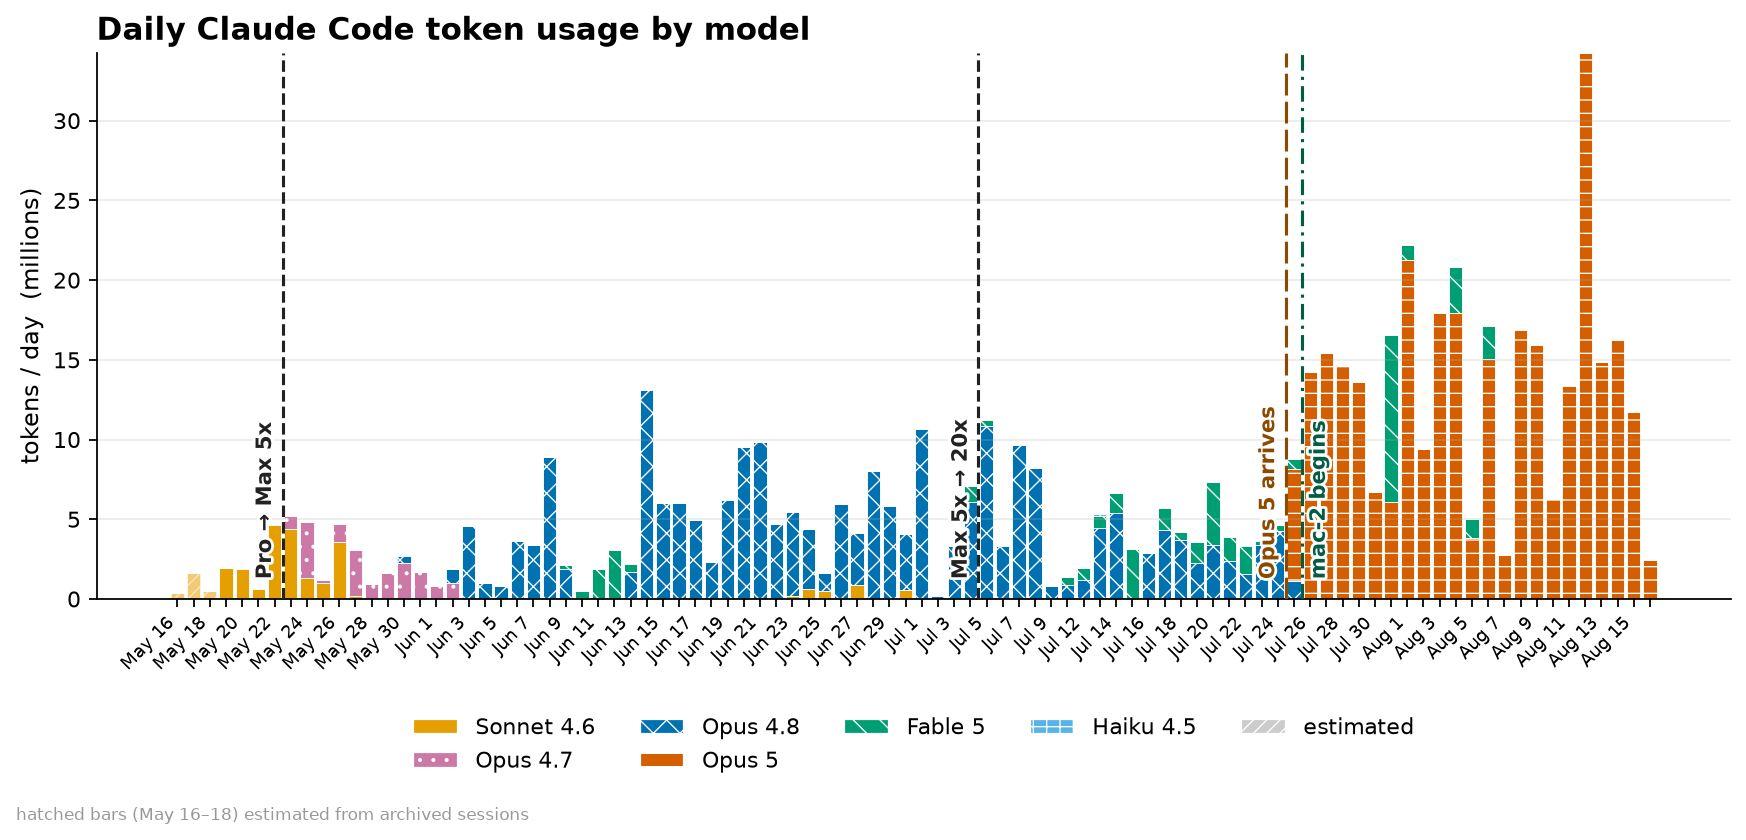
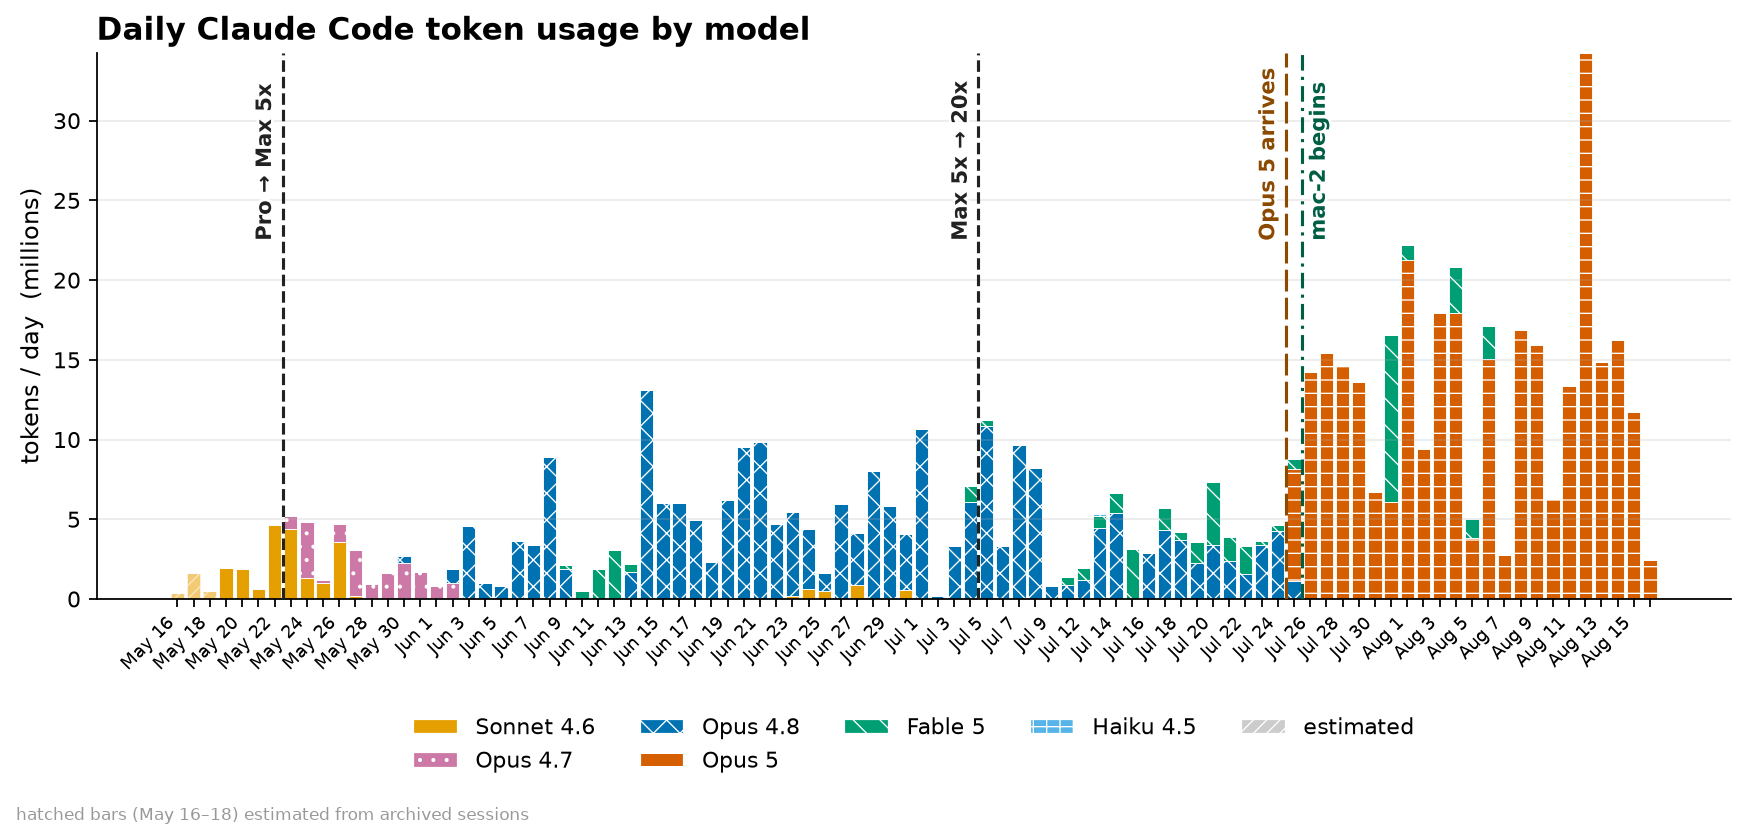
fix(charts): lift the tokens_by_model labels out of the bars
The vertical labels read upward from their anchor, so anchoring near the bottom
ran all four of them through the bar area, which is dense across this whole
timeline. Anchored in the empty top band instead.

Placed by measurement rather than by eye. At 0.70 the longest label spanned 0.72
to 1.03 of the axes height, overflowing the top by 3% — the same defect this PR
already declines to fix on velocity_quality, so shipping a new one would be
inconsistent. 0.64 puts the worst top at 0.967, inside with a margin, and still
well above the tallest bar at any event date.

diff --git a/claude-usage/make_charts.py b/claude-usage/make_charts.py
@@ -359,7 +359,10 @@ def chart_tokens_by_model():
         # Vertical, like every other chart here. Horizontal labels needed a
         # read-inward rule near the right edge and still stacked the model and
         # machine events on top of each other, since they are one day apart.
-        labels.append(event_label(ax, xi - 0.5, 0.02, label, col, yc="axes fraction"))
+        # Anchored high: the label reads upward from here, so a low anchor runs it
+        # through the bars, which are dense across this whole timeline. The top
+        # band is empty at every event date.
+        labels.append(event_label(ax, xi - 0.5, 0.64, label, col, yc="axes fraction"))
     ax.set_title("Daily Claude Code token usage by model", fontsize=14, fontweight="bold", loc="left")
     ax.set_ylabel("tokens / day  (millions)", fontsize=11)
     ax.set_xticks(xs)
